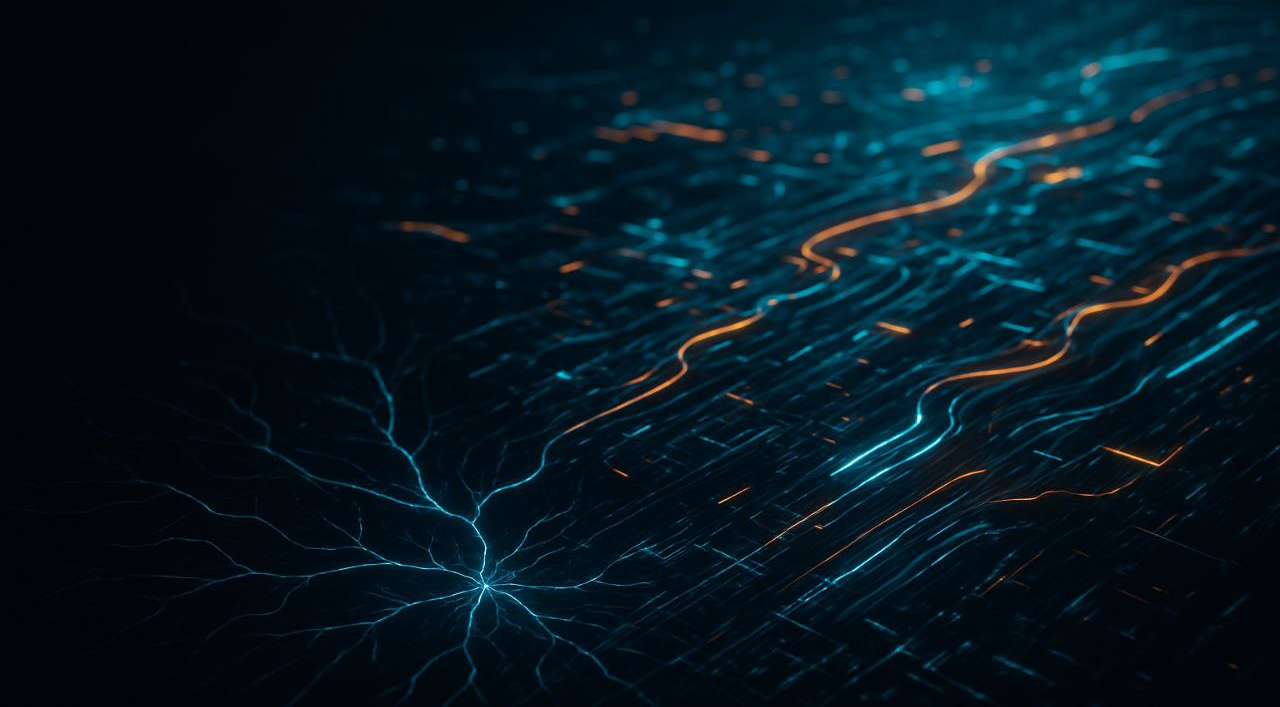
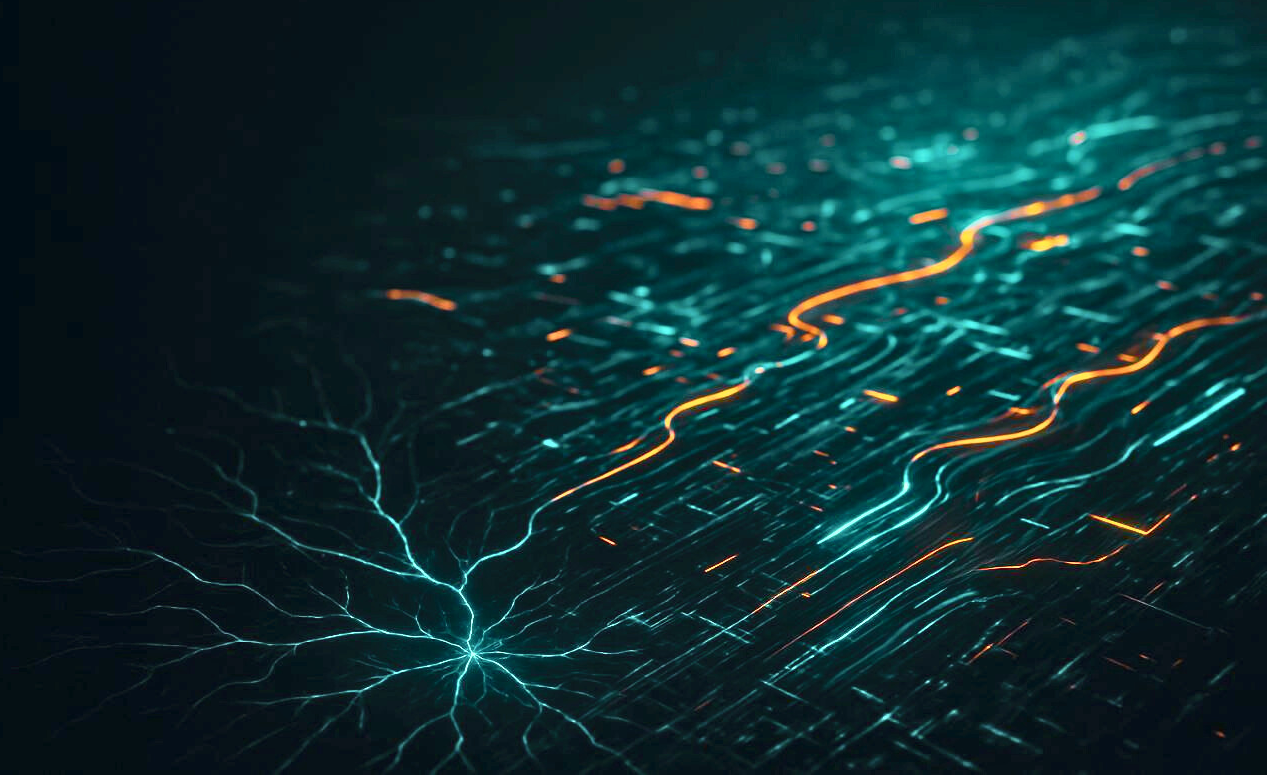
Zaktualizowałem

diff --git a/backend/src/tips/tips.service.ts b/backend/src/tips/tips.service.ts
@@ -1,4 +1,4 @@
-
+import { Injectable, InternalServerErrorException, Logger } from '@nestjs/common';
 import { ConfigService } from '@nestjs/config';
 import { Prisma, Tip, TipStatus } from '@prisma/client';
 import { Blockchain } from '@circle-fin/developer-controlled-wallets';
@@ -53,6 +53,12 @@ export class TipsService {
         // Internal USDC tip between registered users
         const creator = await this.usersService.findOneById(creatorId);
         const fan = await this.usersService.findOneById(fanId);
+        if (!creator || !fan) {
+          throw new Error('Creator or fan not found');
+        }
+        if (!creator.circleWalletId || !fan.circleWalletId) {
+          throw new Error('Missing Circle wallet for creator or fan');
+        }
         const blockchain = this.config.get<string>(
           'DEFAULT_BLOCKCHAIN',
         ) as Blockchain;
@@ -67,7 +73,7 @@ export class TipsService {
           blockchain,
           tokenId,
         );
-
+      }
       const chargeId = randomUUID();
       return await this.prisma.tip.update({
         where: { id: tip.id },

diff --git a/backend/src/auth/strategies/google.strategy.ts b/backend/src/auth/strategies/google.strategy.ts
@@ -74,7 +74,7 @@ export class GoogleStrategy extends PassportStrategy(Strategy, 'google') {
       );
     }
 
-    let role = UserRole.FAN;
+    let role: UserRole = UserRole.FAN;
     if (req.query.state) {
       try {
         const state = JSON.parse(
@@ -82,14 +82,12 @@ export class GoogleStrategy extends PassportStrategy(Strategy, 'google') {
         ) as StatePayload;
 
         if (state && (state.role === 'CREATOR' || state.role === 'FAN')) {
-          // <<< POPRAWKA 1: Konwertujemy string na enum
           role = state.role === 'CREATOR' ? UserRole.CREATOR : UserRole.FAN;
           this.logger.log(
-            `GoogleStrategy: Role '${state.role}' extracted from state parameter and set to enum.`,
+            `GoogleStrategy: Role '${state.role}' extracted from state parameter.`,
           );
         }
       } catch (e) {
-        // <<< POPRAWKA 2: Używamy zmiennej 'e'
         this.logger.warn(
           `GoogleStrategy: Could not parse role from state parameter: ${JSON.stringify(
             req.query.state,

diff --git a/backend/src/creator/onboarding/onboarding.controller.ts b/backend/src/creator/onboarding/onboarding.controller.ts
@@ -3,6 +3,7 @@ import { AuthGuard } from '@nestjs/passport';
 import { Roles } from '../../auth/guards/roles.decorator';
 import { RolesGuard } from '../../auth/guards/roles.guard';
 import { PrismaService } from '../../prisma/prisma.service';
+import { UserRole } from '@prisma/client';
 
 type Steps = {
   identity: boolean;
@@ -18,7 +19,7 @@ function stepsToCompletion(steps: Steps) {
 
 @Controller('/api/v1/creator/onboarding')
 @UseGuards(AuthGuard('jwt'), RolesGuard)
-@Roles('CREATOR','ADMIN')
+@Roles(UserRole.CREATOR, UserRole.ADMIN)
 export class CreatorOnboardingController {
   constructor(private prisma: PrismaService) {}
 

diff --git a/backend/src/users/users.service.ts b/backend/src/users/users.service.ts
@@ -451,7 +451,7 @@ export class UsersService {
       where: { id: userId },
       data: {
         username: data.username.toLowerCase(),
-        consents: data.consents,
+        consents: (data.consents as unknown) as Prisma.InputJsonValue,
         hasCompletedOnboarding: true,
       },
     });

diff --git a/backend/src/prisma/prisma.service.ts b/backend/src/prisma/prisma.service.ts
@@ -12,7 +12,6 @@ export class PrismaService
   implements OnModuleInit, OnModuleDestroy
 {
   private readonly logger = new Logger(PrismaService.name);
-  notification: any;
 
   constructor() {
     // Możesz włączyć logi Prisma: super({ log: ['error', 'warn'] })

diff --git a/backend/src/fan/fan.service.ts b/backend/src/fan/fan.service.ts
@@ -49,7 +49,7 @@ export class FanService {
    */
   async getTipsHistory(userId: string) {
     return this.prisma.tip.findMany({
-      where: { fromUserId: userId },
+      where: { fanId: userId },
       orderBy: { createdAt: 'desc' },
     });
   }

diff --git a/backend/src/overlay/overlay-settings.service.ts b/backend/src/overlay/overlay-settings.service.ts
@@ -18,8 +18,8 @@ export class OverlaySettingsService {
       where: { creatorId },
       update: data,
       create: {
-        creatorId,
         ...(data as Prisma.OverlaySettingsUncheckedCreateInput),
+        creatorId,
       },
     });
   }
